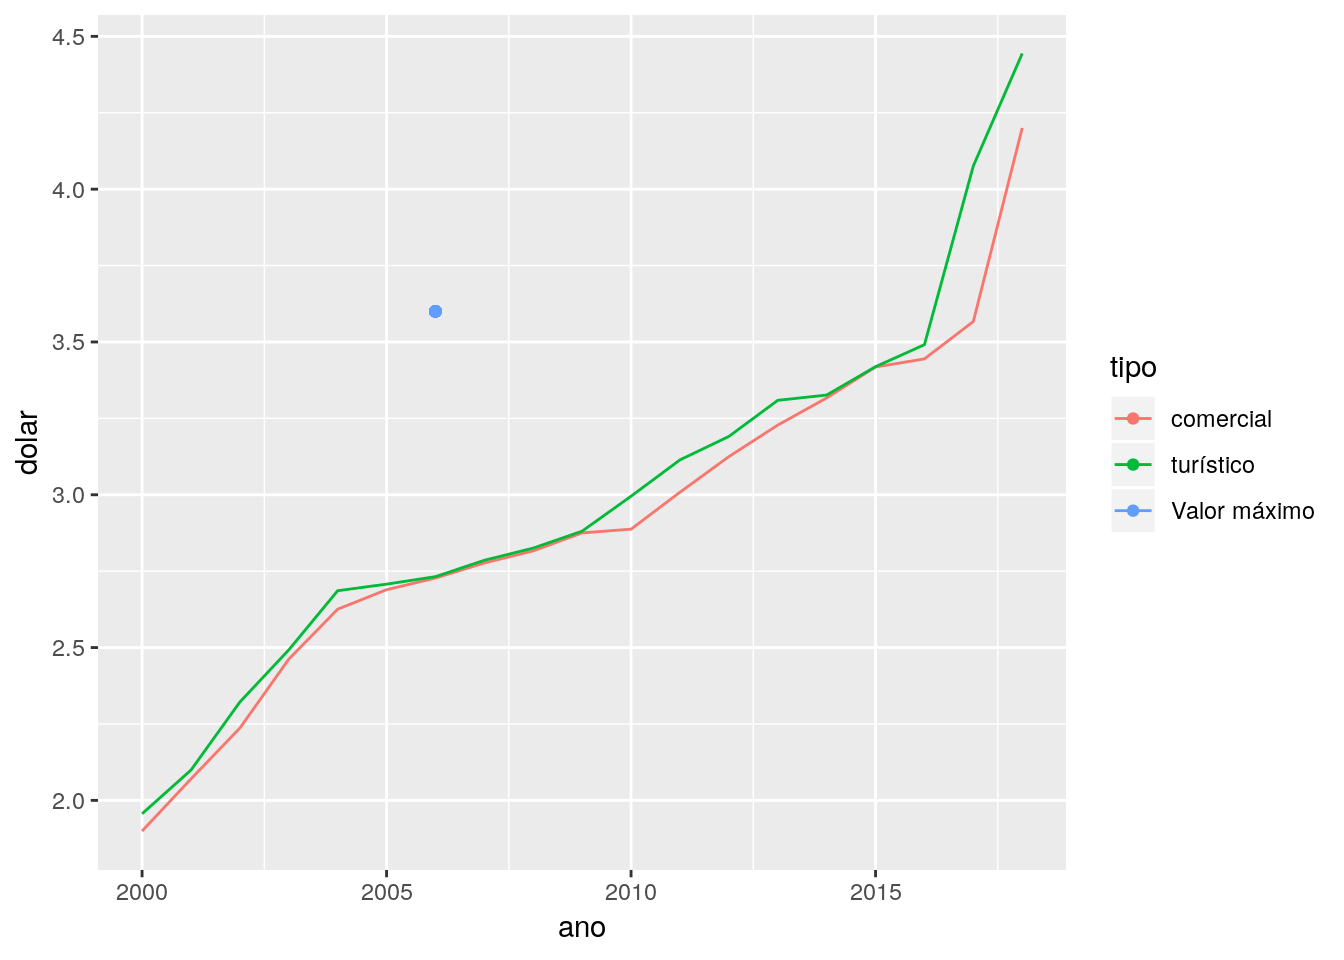
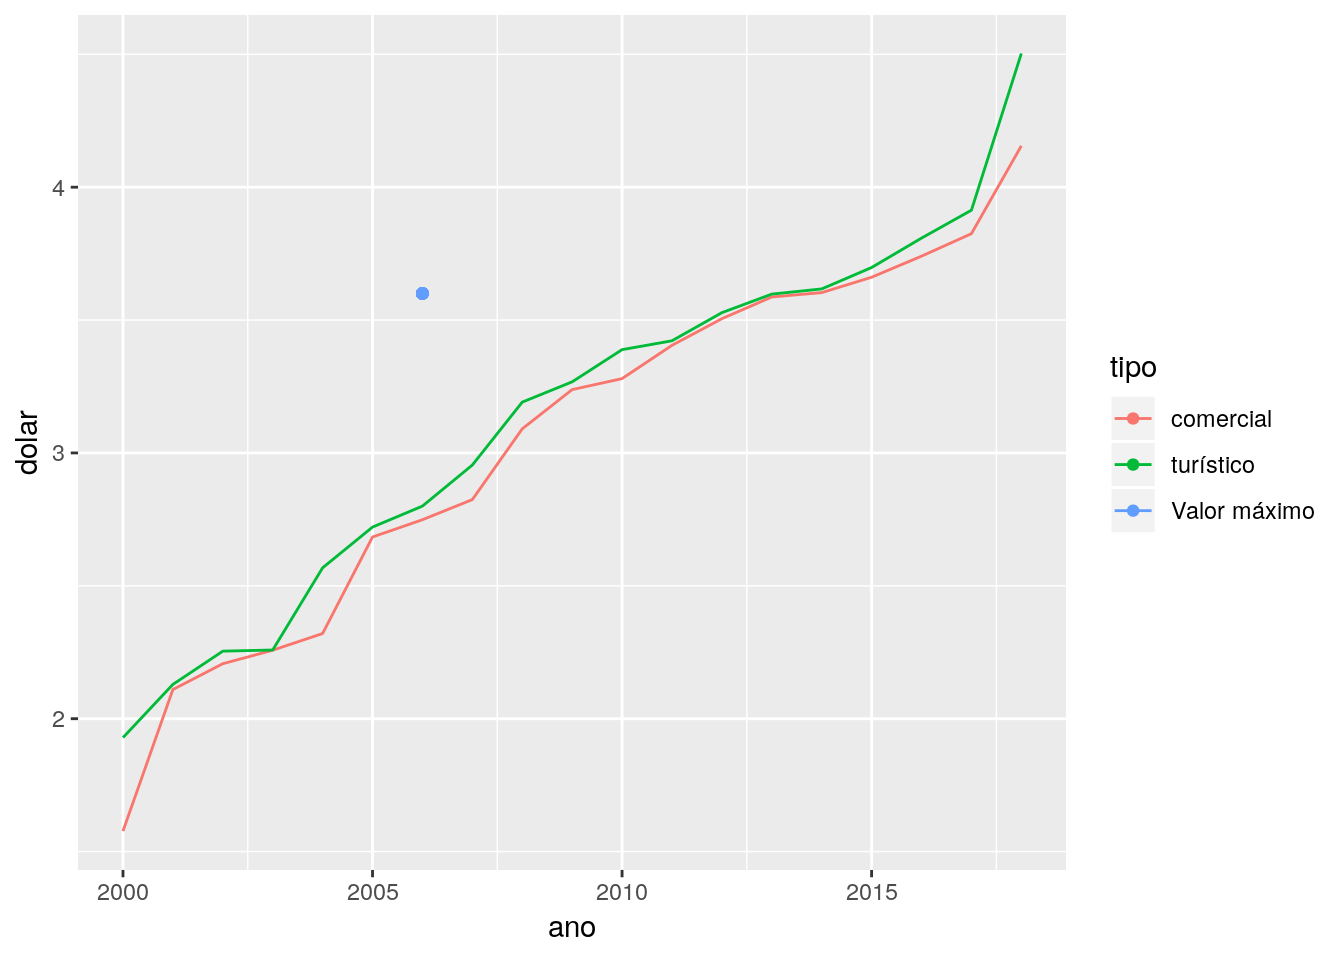
rebuild post

diff --git a/content/post/2018-10-08-manipulando-os-simbolos-na-legenda-do-ggplot2.html b/content/post/2018-10-08-manipulando-os-simbolos-na-legenda-do-ggplot2.html
@@ -29,7 +29,7 @@ df &lt;-
 str(df)</code></pre>
 <pre><code>## &#39;data.frame&#39;:    38 obs. of  3 variables:
 ##  $ ano  : int  2000 2000 2001 2001 2002 2002 2003 2003 2004 2004 ...
-##  $ dolar: num  1.9 1.96 2.07 2.1 2.24 ...
+##  $ dolar: num  1.58 1.93 2.11 2.13 2.21 ...
 ##  $ tipo : Factor w/ 2 levels &quot;comercial&quot;,&quot;turístico&quot;: 1 2 1 2 1 2 1 2 1 2 ...</code></pre>
 <p>Nossos dados estão na forma de um data.frame com três colunas e 30 linhas. Digamos que trata-se realmente da evolução anual do preço médio anual do dólar em relação ao real e que queremos plotar um gráfico de série temporal da cotação média do dólar, tipo. E que queremos adicionar também um ponto num local específico do plot, representando o preço máximo do dólar no ano em que a média e o valor máximo ficaram mais distantes. Podemos fazer isso sem dificuldades com o ggplot.</p>
 </div>
